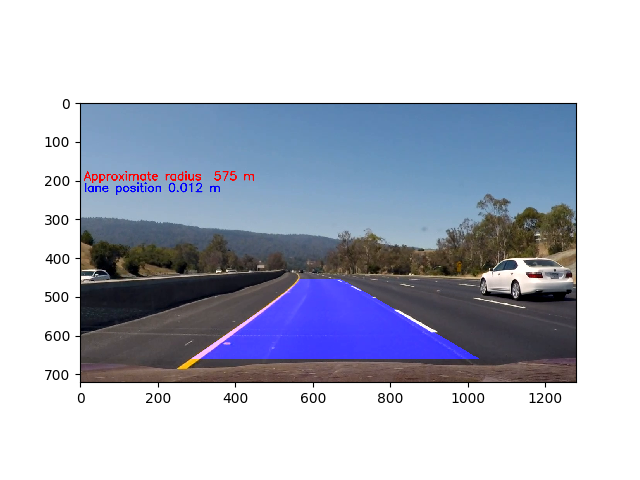
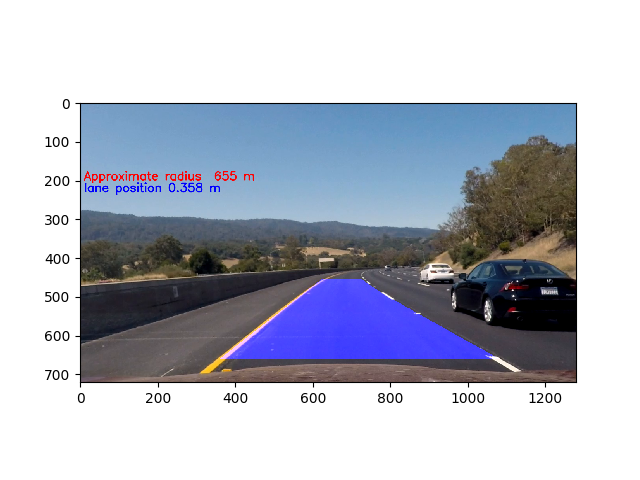
revised files

Changed region(s): [[0.125, 0.2812, 0.9062, 0.8125], [0.3438, 0.3438, 0.375, 0.375], [0.2812, 0.375, 0.3125, 0.4062]]

diff --git a/main.py b/main.py
@@ -429,7 +429,13 @@ def pipeline(img):
 # fname = "project_video"
 # output = fname + "_output.mp4"
 # input_file = VideoFileClip(fname + ".mp4")
-# cut_file = input_file#.subclip(35, 44)
+# cut_file = input_file.subclip(35, 44)
+# cut_file = input_file.get_frame(30)
 # processed_file = cut_file.fl_image(pipeline)
 # processed_file.write_videofile(output, audio = False)
+# result = pipeline(cut_file)
 
+# plt.figure()
+# plt.imshow(result, origin = 'upper')
+# plt.savefig('./output_images/detected_lane.png')
+# plt.show()
